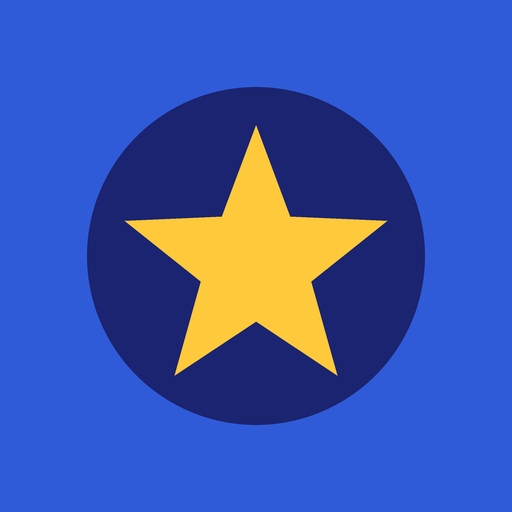
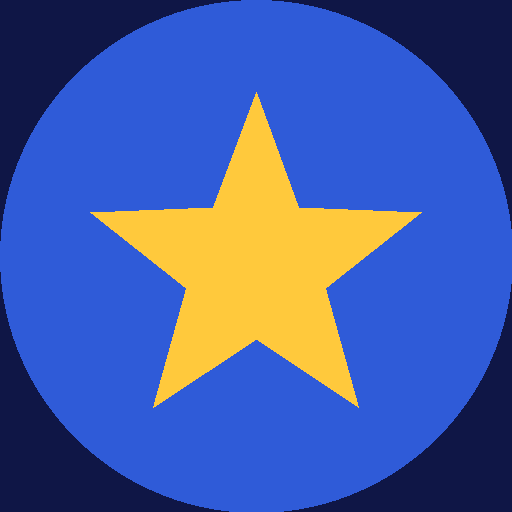
Add files via upload

diff --git a/index.html b/index.html
@@ -99,13 +99,8 @@
   .status{color:var(--muted);font-size:.95rem;min-height:1.4em}
   .vol{display:flex;align-items:center;gap:10px;justify-content:center;margin-top:12px;color:var(--muted)}
   input[type=range]{accent-color:var(--gold);width:55%;height:28px}
-  /* el reproductor oficial se muestra completo y pequeño, sin tapar ni ocultar */
-  /* marco de pantalla retro: el reproductor se ve completo (mínimo 200 px) pero queda integrado al diseño */
-  #ytBox{display:none;margin:26px auto 0;width:100%;max-width:272px;height:224px;padding:8px;border-radius:22px;overflow:hidden;
-    background:linear-gradient(160deg,#2c3274,#12163f);border:2px solid var(--line);
-    box-shadow:0 16px 34px rgba(0,0,0,.4),inset 0 2px 0 rgba(255,255,255,.14)}
-  #ytBox iframe{border-radius:13px}
-  #ytBox.on{display:block}
+  /* el reproductor funciona pero fuera de la pantalla: solo se ve la portada */
+  #ytBox{position:fixed;left:-400px;top:0;width:200px;height:200px;opacity:.01;pointer-events:none;overflow:hidden}
   #ytBox iframe{width:100%;height:100%;display:block}
 
   /* portada de la canción */
@@ -242,7 +237,7 @@
     <div class="hdrbtns"><button class="theme help" id="helpBtn" aria-label="Ver el tutorial">?</button><button class="theme" id="themeBtn" aria-label="Cambiar entre noche y día">☀</button></div>
   </header>
 
-  <div class="fileWarn" id="fileWarn" role="alert">⚠ Abriste la radio desde un archivo del computador. Así YouTube no puede sonar (error 153). Sube este archivo a un enlace https, por ejemplo con Netlify Drop, y ábrelo desde ahí.</div>
+  <div class="fileWarn" id="fileWarn" role="alert">⚠ Abriste la radio desde un archivo del computador. Así la música no puede sonar (error 153). Sube este archivo a un enlace https, por ejemplo con Netlify Drop, y ábrelo desde ahí.</div>
 
   <div class="dial" aria-hidden="true">
     <div class="scale"></div>
@@ -294,7 +289,7 @@
     También puedes llamarnos
     <br><a class="phone" id="phoneLink" href="tel:0997049524">0997049524</a>
     <div class="credit"><span id="userName"></span> · <a href="#" id="logoutLink">Cerrar sesión</a></div>
-    <div class="credit">Música libre de Kevin MacLeod (<a href="https://incompetech.com">incompetech.com</a>), licencia CC BY 4.0.<br>Las demás canciones suenan en el reproductor oficial de YouTube.</div>
+    <div class="credit">Música libre de Kevin MacLeod (<a href="https://incompetech.com">incompetech.com</a>), licencia CC BY 4.0.</div>
     <div class="rights">
       <svg viewBox="0 0 100 100" aria-hidden="true"><polygon points="50,10 61,38 91,41 68,60 75,89 50,73 25,89 32,60 9,41 39,38" fill="currentColor"/></svg>
       <p>© 2026 Luis García. Todos los derechos reservados.</p>
@@ -440,8 +435,8 @@ window.onYouTubeIframeAPIReady = function(){
         } else {
           // error de configuración (153, archivo local, red): la canción NO se apaga
           $("status").textContent = location.protocol === "file:"
-            ? "YouTube no funciona desde un archivo. Abre la radio desde un enlace https."
-            : "YouTube no pudo cargar. Reintentando en un momento...";
+            ? "La música no funciona desde un archivo. Abre la radio desde un enlace https."
+            : "No pudo cargar. Reintentando en un momento...";
         }
         badKey = currentKey; currentKey = null;
         setTimeout(sync, 8000);
@@ -451,7 +446,7 @@ window.onYouTubeIframeAPIReady = function(){
 };
 function startYouTube(n){
   $("ytBox").classList.add("on");
-  if(!ytReady){ ytPending = n; $("status").textContent = "Cargando YouTube..."; return; }
+  if(!ytReady){ ytPending = n; $("status").textContent = "Cargando..."; return; }
   yt.loadVideoById({videoId:n.youtube_video_id, startSeconds:n.position_seconds || 0});
   yt.setVolume(Math.round(volume*100));
 }
@@ -505,6 +500,79 @@ function callDJ(){
 // el cerebro trabaja mientras la cancion suena: cada 30 s prepara las siguientes
 setInterval(function(){ if(listening) callDJ(); }, 30000);
 
+/* ---- DJ: efectos al cambiar de canción, solo en horario de fiesta ---- */
+var DROP_FROM = 20, DROP_TO = 2;   // de 8 pm a 2 am, hora de Ecuador (cámbialos aquí)
+var DROP_EVERY = 3;                // más o menos 1 de cada 3 canciones
+var DROP_PHRASES = ["¡Y sigue la fiesta!", "¡Radio Estrella, la rumba no para!", "¡Dale, dale, que sigue la fiesta!", "¡Esto es Radio Estrella!"];
+var actx = null;
+function ecHour(){
+  try{ return parseInt(new Intl.DateTimeFormat("en-US", {timeZone:"America/Guayaquil", hour:"numeric", hour12:false}).format(new Date()), 10) % 24; }
+  catch(e){ return new Date().getHours(); }
+}
+function inDropHours(){ var h = ecHour(); return DROP_FROM <= DROP_TO ? (h >= DROP_FROM && h < DROP_TO) : (h >= DROP_FROM || h < DROP_TO); }
+function hashKey(t){ var h = 0; for(var i = 0; i < t.length; i++){ h = (h * 31 + t.charCodeAt(i)) | 0; } return Math.abs(h); }
+function actxGet(){
+  try{
+    if(!actx){ actx = new (window.AudioContext || window.webkitAudioContext)(); }
+    if(actx.state === "suspended") actx.resume();
+    return actx;
+  }catch(e){ return null; }
+}
+function fxSweep(c, t0){          // subida de ruido, como los DJ antes del golpe
+  var len = Math.floor(c.sampleRate * 1.1), buf = c.createBuffer(1, len, c.sampleRate), d = buf.getChannelData(0);
+  for(var i = 0; i < len; i++) d[i] = Math.random() * 2 - 1;
+  var src = c.createBufferSource(); src.buffer = buf;
+  var f = c.createBiquadFilter(); f.type = "bandpass"; f.Q.value = 3;
+  f.frequency.setValueAtTime(300, t0); f.frequency.exponentialRampToValueAtTime(5000, t0 + 1.0);
+  var g = c.createGain(); g.gain.setValueAtTime(0.0001, t0);
+  g.gain.exponentialRampToValueAtTime(0.5, t0 + 0.9); g.gain.exponentialRampToValueAtTime(0.0001, t0 + 1.1);
+  src.connect(f); f.connect(g); g.connect(c.destination); src.start(t0); src.stop(t0 + 1.1);
+}
+function fxHit(c, t0){            // golpe grave
+  var o = c.createOscillator(), g = c.createGain(); o.type = "sine";
+  o.frequency.setValueAtTime(140, t0); o.frequency.exponentialRampToValueAtTime(40, t0 + 0.35);
+  g.gain.setValueAtTime(0.6, t0); g.gain.exponentialRampToValueAtTime(0.0001, t0 + 0.4);
+  o.connect(g); g.connect(c.destination); o.start(t0); o.stop(t0 + 0.42);
+}
+function fxHorn(c, t0){           // corneta de DJ (dos pitidos)
+  [440, 554, 659].forEach(function(fr){
+    [0, 0.38].forEach(function(off){
+      var o = c.createOscillator(), g = c.createGain(); o.type = "sawtooth";
+      o.frequency.setValueAtTime(fr, t0 + off); o.frequency.exponentialRampToValueAtTime(fr * 0.97, t0 + off + 0.3);
+      g.gain.setValueAtTime(0.0001, t0 + off); g.gain.exponentialRampToValueAtTime(0.12, t0 + off + 0.03);
+      g.gain.exponentialRampToValueAtTime(0.0001, t0 + off + 0.32);
+      o.connect(g); g.connect(c.destination); o.start(t0 + off); o.stop(t0 + off + 0.34);
+    });
+  });
+}
+function djSay(text){
+  try{
+    if(!window.speechSynthesis) return;
+    var vs = speechSynthesis.getVoices().filter(function(v){ return /^es/i.test(v.lang); });
+    var u = new SpeechSynthesisUtterance(text);
+    if(vs.length){ u.voice = vs[0]; u.lang = vs[0].lang; } else { u.lang = "es-ES"; }
+    u.rate = 1.05; u.pitch = 0.7; u.volume = Math.min(1, volume + 0.2);
+    speechSynthesis.cancel(); speechSynthesis.speak(u);
+  }catch(e){}
+}
+function duck(on){                // baja la música un momento para que se oiga el DJ
+  try{ if(ytReady && yt) yt.setVolume(Math.round(volume * 100 * (on ? 0.35 : 1))); }catch(e){}
+  audio.volume = on ? volume * 0.35 : volume;
+}
+function djDrop(key){
+  if(!listening || !inDropHours()) return;
+  var h = hashKey(key);                       // la misma decisión para todos los oyentes
+  if(h % DROP_EVERY !== 0) return;
+  var c = actxGet(); if(!c) return;
+  var t0 = c.currentTime + 0.05, kind = Math.floor(h / DROP_EVERY) % 3;
+  duck(true);
+  if(kind === 1){ fxHorn(c, t0); } else { fxSweep(c, t0); fxHit(c, t0 + 1.0); }
+  var phrase = DROP_PHRASES[Math.floor(h / 7) % DROP_PHRASES.length];
+  setTimeout(function(){ djSay(phrase); }, kind === 1 ? 700 : 900);
+  setTimeout(function(){ duck(false); }, 3800);
+}
+try{ if(window.speechSynthesis) speechSynthesis.getVoices(); }catch(e){}
+
 function sync(){
   clearTimeout(timer);
   fetchNow().then(function(n){
@@ -522,6 +590,7 @@ function sync(){
     if(listening && key !== currentKey && key !== badKey){
       currentKey = key;
       currentSongId = n.song_id || null;
+      if(n.kind !== "voz" && n.source !== "voz" && (n.position_seconds || 0) < 8) djDrop(key);
       if(n.kind === "youtube"){
         audio.pause();
         startYouTube(n);
@@ -558,6 +627,7 @@ $("playBtn").onclick = function(){
     $("status").textContent = "En pausa. Al volver entras en vivo, justo donde va la radio.";
   } else {
     listening = true;
+    actxGet();
     currentKey = null;
     $("status").textContent = "Conectando...";
     sync();
@@ -617,7 +687,7 @@ var TUTO = [
   ["Mira el dial", "La estrella dorada avanza mientras suena la canción. Abajo ves el título y el artista."],
   ["Pide tu canción", "Escribe el nombre y el artista, y toca “Enviar pedido”. El DJ la pone en la radio cuando le toque."],
   ["Ajusta a tu gusto", "Usa la barra del volumen. El botón ☀ o 🌙 cambia entre día y noche."],
-  ["Deja la pantalla encendida", "En el celular, si apagas la pantalla el sonido de YouTube se puede cortar."]
+  ["Deja la pantalla encendida", "En el celular, si apagas la pantalla el sonido se puede cortar."]
 ];
 function showGate(id){
   ["gLogin","gCode","gPromo","gTuto"].forEach(function(x){ $(x).style.display = (x === id) ? "flex" : "none"; });

diff --git a/sw.js b/sw.js
@@ -1,36 +1,24 @@
-/* Radio Estrella - service worker
-   Guarda una copia de la app para que abra rápido y aunque falle el internet.
-   Siempre intenta primero la versión nueva. La música NO se guarda: va en vivo. */
-const CACHE = 'radioestrella-v1';
-const BASE = ['./', 'index.html', 'manifest.json', 'icon-192.png'];
+// Radio Estrella: guarda la página para abrir más rápido. La música y los datos siempre van en vivo.
+const V = "radio-estrella-v1";
+const SHELL = ["./", "index.html", "manifest.json", "icon-192.png", "icon-512.png", "apple-touch-icon.png"];
 
-self.addEventListener('install', (e) => {
-  e.waitUntil(caches.open(CACHE).then((c) => c.addAll(BASE)).catch(() => {}));
-  self.skipWaiting();
+self.addEventListener("install", (e) => {
+  e.waitUntil(caches.open(V).then((c) => c.addAll(SHELL)).then(() => self.skipWaiting()));
 });
-
-self.addEventListener('activate', (e) => {
+self.addEventListener("activate", (e) => {
   e.waitUntil(
     caches.keys()
-      .then((ks) => Promise.all(ks.filter((k) => k !== CACHE).map((k) => caches.delete(k))))
+      .then((ks) => Promise.all(ks.filter((k) => k !== V).map((k) => caches.delete(k))))
       .then(() => self.clients.claim())
   );
 });
-
-/* Primero internet; si falla, la copia guardada. Solo archivos de este mismo sitio
-   (la música, YouTube y la base de datos son de otros sitios y no se tocan). */
-self.addEventListener('fetch', (e) => {
-  const r = e.request;
-  if (r.method !== 'GET' || new URL(r.url).origin !== self.location.origin) return;
+self.addEventListener("fetch", (e) => {
+  const u = new URL(e.request.url);
+  if (e.request.method !== "GET" || u.origin !== location.origin) return; // Supabase, YouTube, etc.: siempre en vivo
+  if (u.pathname.includes("/admin/")) return;                               // el panel del DJ nunca se guarda
   e.respondWith(
-    fetch(r)
-      .then((res) => {
-        if (res && res.ok && res.status === 200) {
-          const copia = res.clone();
-          caches.open(CACHE).then((c) => c.put(r, copia)).catch(() => {});
-        }
-        return res;
-      })
-      .catch(() => caches.match(r).then((x) => x || caches.match('index.html')))
+    fetch(e.request)
+      .then((r) => { const c = r.clone(); caches.open(V).then((x) => x.put(e.request, c)); return r; })
+      .catch(() => caches.match(e.request).then((m) => m || caches.match("index.html")))
   );
 });

diff --git a/README.md b/README.md
@@ -1,0 +1,32 @@
+# ⭐ Radio Estrella
+
+Radio por internet con DJ automático. Los oyentes escuchan y piden canciones; tú manejas todo desde un panel privado.
+
+```
+index.html        → la radio (lo que ven los oyentes)
+admin/index.html  → panel del DJ (solo administradores)
+manifest.json, sw.js, *.png → para instalarla como aplicación en el celular
+```
+
+## Cómo publicarla en GitHub Pages (gratis, con https)
+
+1. Entra a **github.com** y crea una cuenta (o inicia sesión).
+2. Toca **New repository**. Nombre: `radio-estrella`. Déjalo **Public**. Crea el repositorio.
+3. Toca **uploading an existing file** (o *Add file → Upload files*).
+4. Arrastra **todo lo que hay dentro de la carpeta** `radio-estrella` (incluida la carpeta `admin`). El archivo `.nojekyll` también.
+5. Abajo toca **Commit changes**.
+6. Ve a **Settings → Pages**. En *Build and deployment*: **Deploy from a branch**, rama **main**, carpeta **/ (root)**. Guarda.
+7. Espera 1 o 2 minutos. Tu radio quedará en:
+   - Radio: `https://TU-USUARIO.github.io/radio-estrella/`
+   - Panel del DJ: `https://TU-USUARIO.github.io/radio-estrella/admin/`
+
+## Para actualizar
+Entra al archivo en GitHub → ✏ *Edit* → pega el contenido nuevo → *Commit changes*. En 1 o 2 minutos se actualiza.
+
+## Seguridad (importante)
+- La clave `sb_publishable_...` que está en los archivos **es pública a propósito**: puede verse sin problema.
+- **Nunca** subas a GitHub la clave `service_role` de Supabase ni la `YOUTUBE_API_KEY`. Esas viven solo en Supabase (Edge Functions → Secrets).
+- El panel `/admin/` es público como dirección, pero solo entran los correos que están en la tabla `admins` de Supabase y con un código que llega al correo.
+
+## Música y créditos
+- Música libre de respaldo: Kevin MacLeod (incompetech.com), licencia CC BY 4.0.
